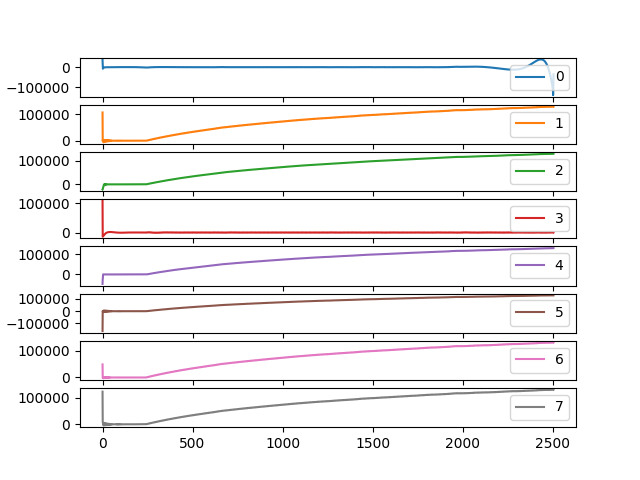
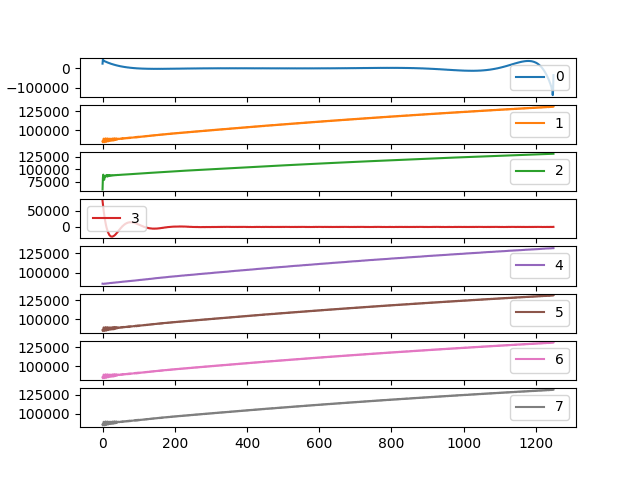
getting there...

diff --git a/BrainflowPythonTest/test.py b/BrainflowPythonTest/test.py
@@ -3,8 +3,6 @@ import time
 import matplotlib
 import numpy as np
 import pandas as pd
-
-matplotlib.use('Agg')
 import matplotlib.pyplot as plt
 
 from brainflow.board_shim import BoardShim, BrainFlowInputParams, LogLevels, BoardIds
@@ -12,52 +10,39 @@ from brainflow.data_filter import DataFilter, FilterTypes, AggOperations, NoiseT
 
 
 def main():
-    BoardShim.enable_dev_board_logger()
 
-    # use synthetic board for demo
+    # Setup
+    BoardShim.enable_dev_board_logger()
     params = BrainFlowInputParams()
     board_id = BoardIds.UNICORN_BOARD
     board = BoardShim(board_id, params)
     board.prepare_session()
     board.start_stream()
-    BoardShim.log_message(LogLevels.LEVEL_INFO.value, 'start sleeping in the main thread')
+
+    # Basic Calculations
+    sampling_rate = BoardShim.get_sampling_rate(board_id)
+    time_to_record = sampling_rate*5 # 5 seconds
+
+    # Wait to populate data
     time.sleep(10)
-    data = board.get_board_data()
+    data = board.get_current_board_data(time_to_record)
     board.stop_stream()
     board.release_session()
 
     # demo how to convert it to pandas DF and plot data
     eeg_channels = BoardShim.get_eeg_channels(board_id)
-    df = pd.DataFrame(np.transpose(data))
-    plt.figure()
-    df[eeg_channels].plot(subplots=True)
-    plt.savefig('before_processing.png')
 
     # for demo apply different filters to different channels, in production choose one
-    for count, channel in enumerate(eeg_channels):
-        # filters work in-place
-        if count == 0:
-            DataFilter.perform_bandpass(data[channel], BoardShim.get_sampling_rate(board_id), 2.0, 50.0, 4,
-                                        FilterTypes.BESSEL_ZERO_PHASE, 0)
-        elif count == 1:
-            DataFilter.perform_bandstop(data[channel], BoardShim.get_sampling_rate(board_id), 48.0, 52.0, 3,
-                                        FilterTypes.BUTTERWORTH_ZERO_PHASE, 0)
-        elif count == 2:
-            DataFilter.perform_lowpass(data[channel], BoardShim.get_sampling_rate(board_id), 50.0, 5,
-                                       FilterTypes.CHEBYSHEV_TYPE_1_ZERO_PHASE, 1)
-        elif count == 3:
-            DataFilter.perform_highpass(data[channel], BoardShim.get_sampling_rate(board_id), 2.0, 4,
-                                        FilterTypes.BUTTERWORTH, 0)
-        elif count == 4:
-            DataFilter.perform_rolling_filter(data[channel], 3, AggOperations.MEAN.value)
-        else:
-            DataFilter.remove_environmental_noise(data[channel], BoardShim.get_sampling_rate(board_id),
-                                                  NoiseTypes.FIFTY.value)
+    for channel in eeg_channels:
+        DataFilter.perform_bandpass(data[channel], BoardShim.get_sampling_rate(board_id), 2.0, 60.0, 1, FilterTypes.BUTTERWORTH, 0)
+        DataFilter.perform_lowpass(data[channel], BoardShim.get_sampling_rate(board_id), 60.0, 1, FilterTypes.BUTTERWORTH, 1)
+        DataFilter.perform_highpass(data[channel], BoardShim.get_sampling_rate(board_id), 2.0, 1, FilterTypes.BUTTERWORTH, 0)
+        # DataFilter.perform_rolling_filter(data[channel], 3, AggOperations.MEAN.value)
+        DataFilter.remove_environmental_noise(data[channel], BoardShim.get_sampling_rate(board_id), NoiseTypes.SIXTY.value)
 
-    df = pd.DataFrame(np.transpose(data))
-    plt.figure()
-    df[eeg_channels].plot(subplots=True)
-    plt.savefig('after_processing.png')
+    fig, ax = plt.subplots()
+    ax.plot(data[0])
+    plt.show()
 
 
 if __name__ == "__main__":
